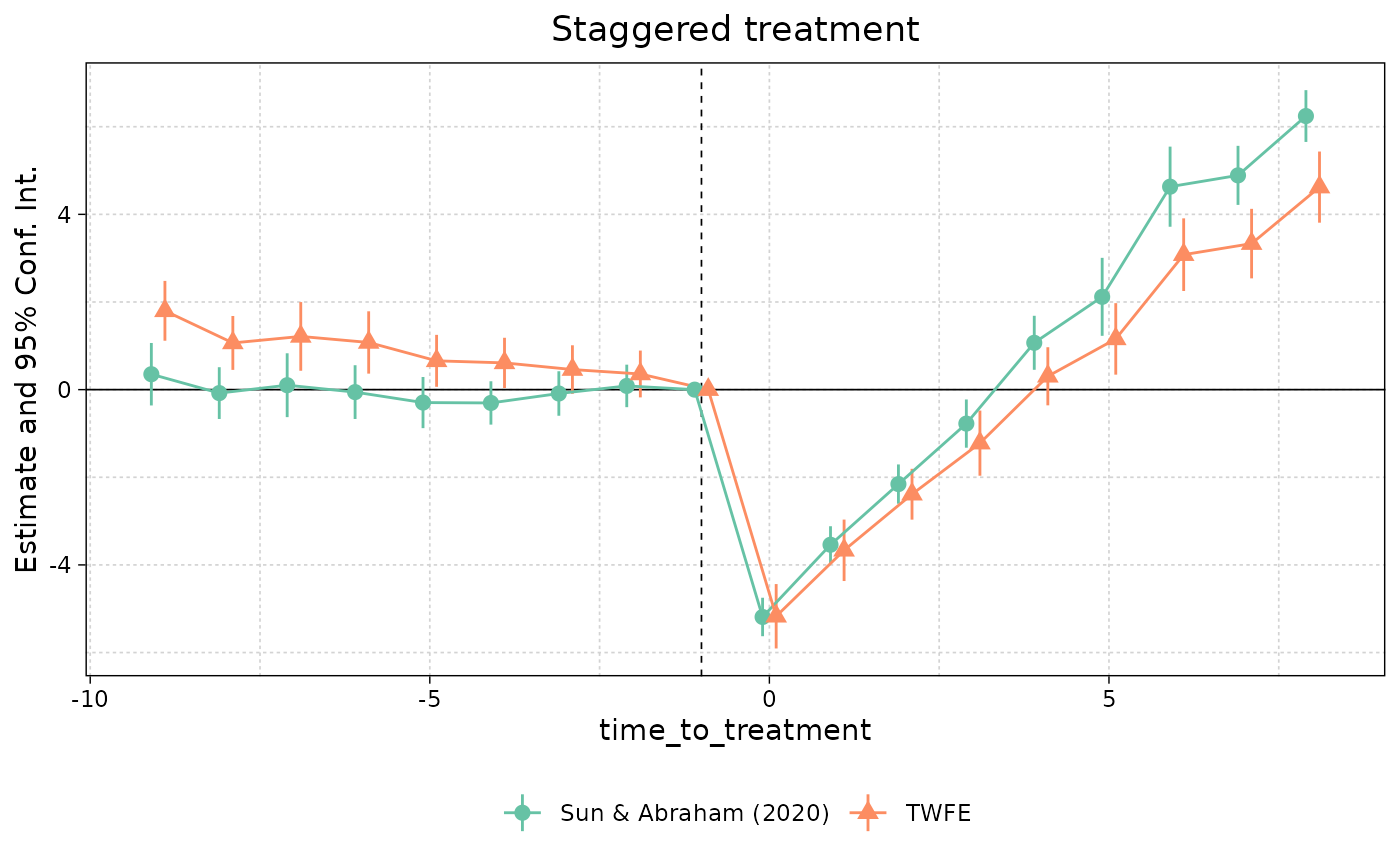
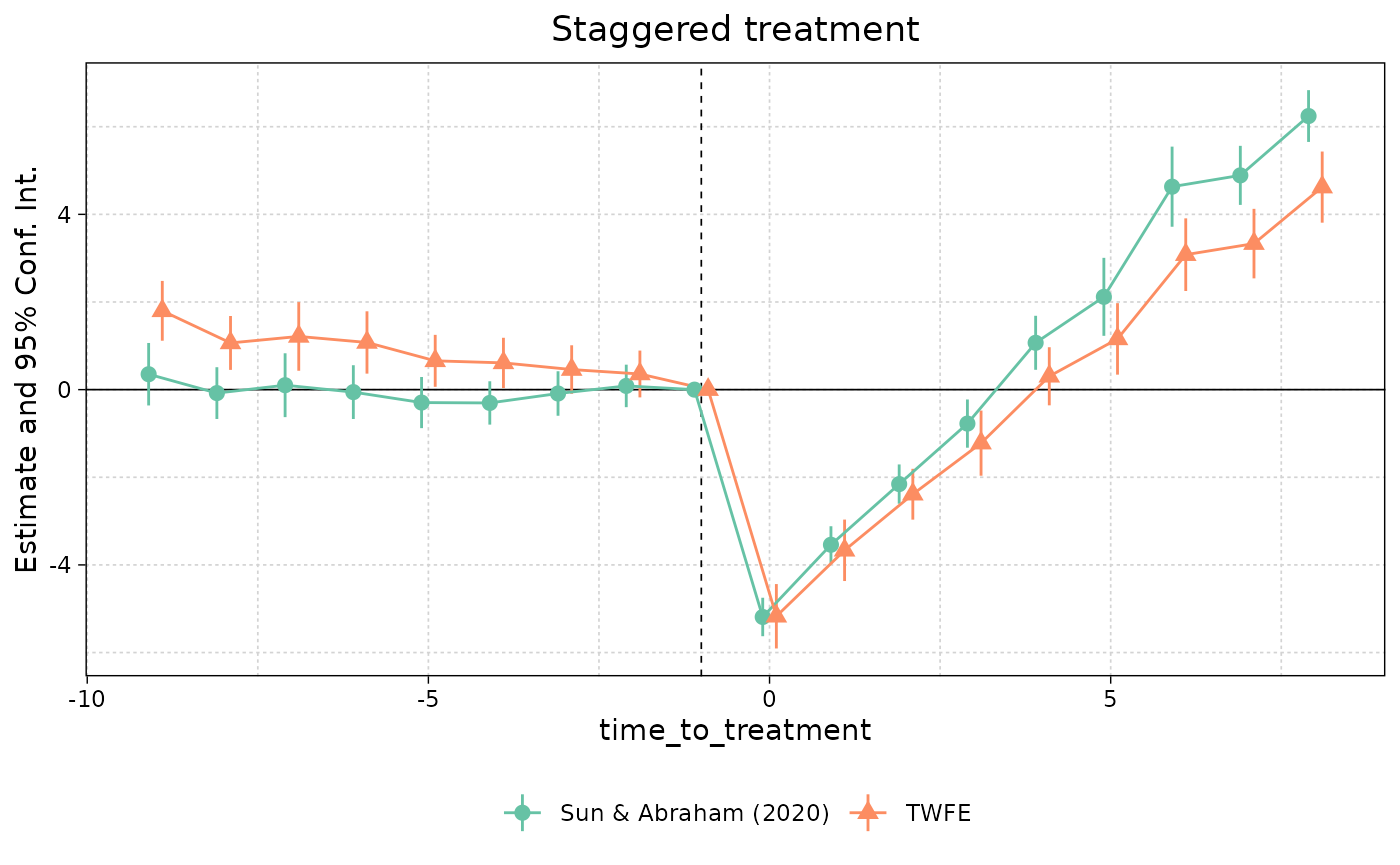
Deploying to gh-pages from @ grantmcdermott/ggfixest@0234b4325b3e9eae2f69f053a8ecd573c27a494c 🚀

diff --git a/dev/news/index.html b/dev/news/index.html
@@ -40,11 +40,12 @@
 <h2 class="pkg-version" data-toc-text="0.1.0.99" id="ggfixest-01099-development-version">ggfixest 0.1.0.99 (development version)<a class="anchor" aria-label="anchor" href="#ggfixest-01099-development-version"></a></h2>
 <div class="section level4">
 <h4 id="bug-fixes-0-1-0-99">Bug fixes<a class="anchor" aria-label="anchor" href="#bug-fixes-0-1-0-99"></a></h4>
-<ul><li>Fix missing “hypothesis” attribute for <code>aggr_es</code> objects (<a href="https://github.com/grantmcdermott/ggfixest/issues/43" class="external-link">#43</a>)</li>
+<ul><li>Fix missing “hypothesis” attribute for <code>aggr_es</code> objects. (<a href="https://github.com/grantmcdermott/ggfixest/issues/43" class="external-link">#43</a>)</li>
+<li>Fix dodge misalignment between points and lines with multi fixest objects. (<a href="https://github.com/grantmcdermott/ggfixest/issues/44" class="external-link">#44</a>)</li>
 </ul></div>
 <div class="section level4">
 <h4 id="internals-0-1-0-99">Internals<a class="anchor" aria-label="anchor" href="#internals-0-1-0-99"></a></h4>
-<ul><li>Replace <code>ggh4x</code> dependency with <code>legendry</code> (<a href="https://github.com/grantmcdermott/ggfixest/issues/41" class="external-link">#41</a> <a href="https://github.com/teunbrand" class="external-link">@teunbrand</a>)</li>
+<ul><li>Replace <code>ggh4x</code> dependency with <code>legendry</code>. (<a href="https://github.com/grantmcdermott/ggfixest/issues/41" class="external-link">#41</a> <a href="https://github.com/teunbrand" class="external-link">@teunbrand</a>)</li>
 </ul></div>
 <div class="section level4">
 <h4 id="misc-0-1-0-99">Misc<a class="anchor" aria-label="anchor" href="#misc-0-1-0-99"></a></h4>
